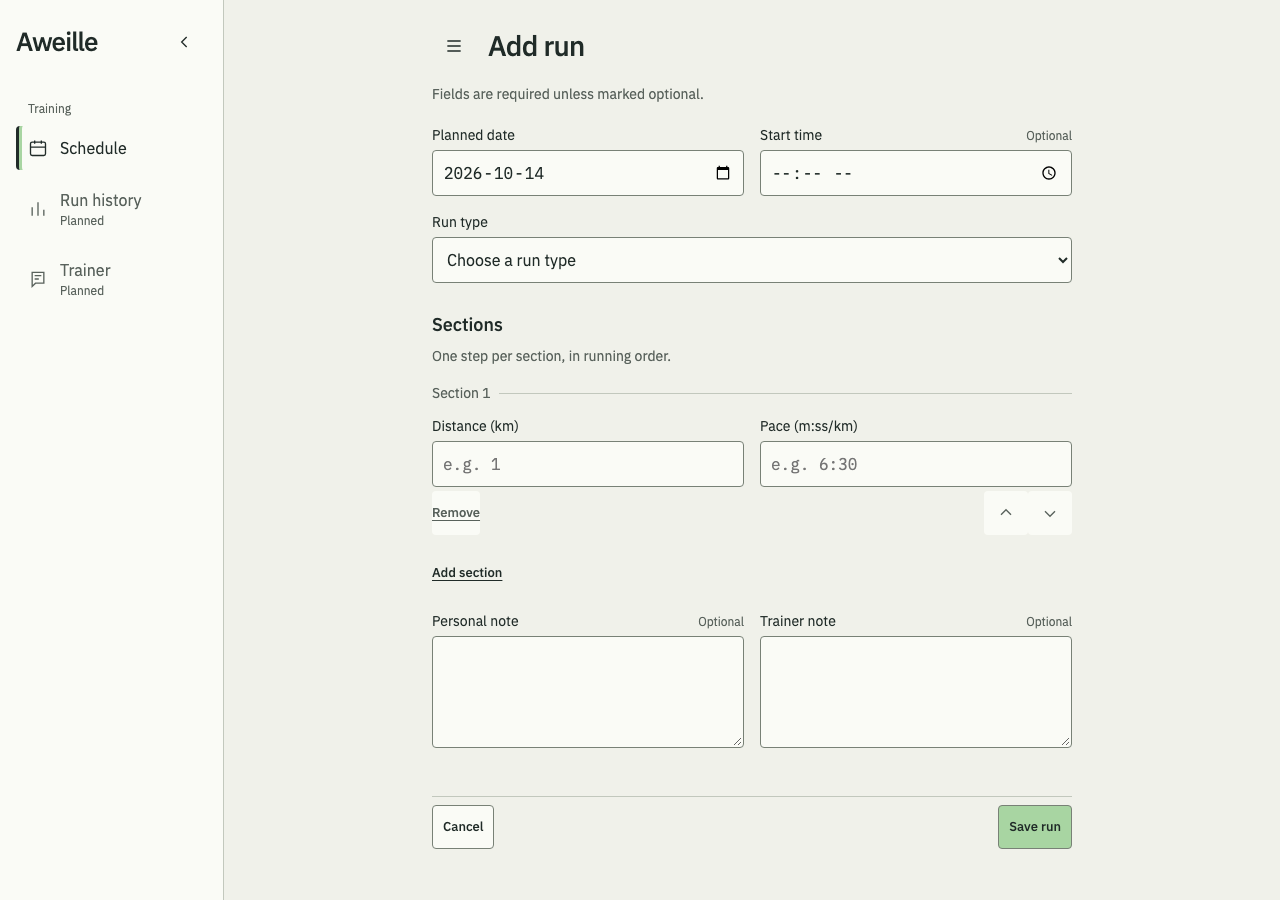
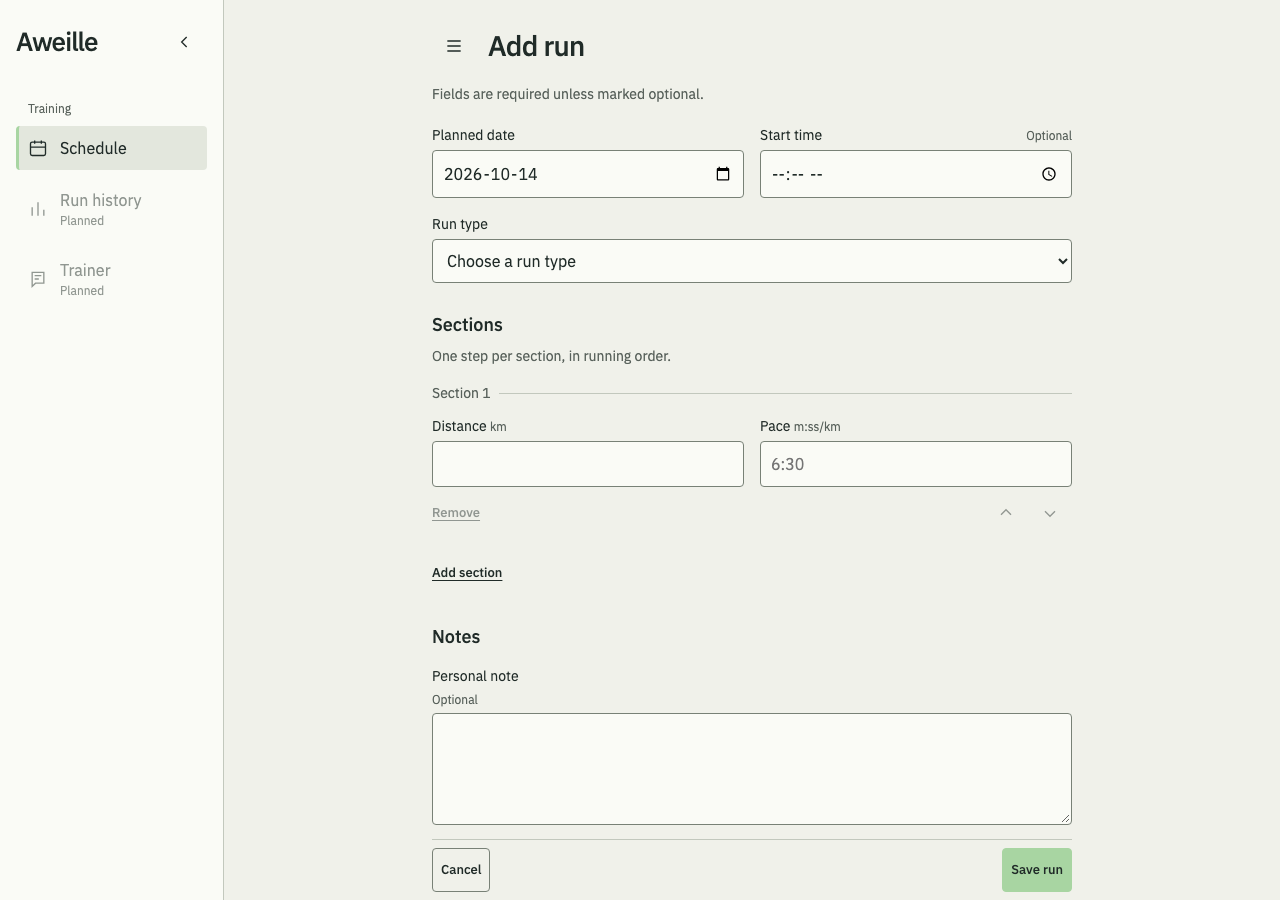
docs: refresh prototype parity captures and final verification

diff --git a/docs/verification/redesign-acceptance.md b/docs/verification/redesign-acceptance.md
@@ -4,6 +4,14 @@
 
 Arnaud subsequently requested the prototype's appearance directly in production. [DESIGN.md](../../DESIGN.md#production-visual-reference) records that preference over the earlier consolidated presentation differences. The [direct specimen comparison](redesign-visual-parity.md) now verifies the paired phone fields, full-width notes, Sans values and prototype control/state treatments. This supersedes the earlier stacked-field, Mono-input, outlined-primary and opaque-disabled-action claims below. All production write/recovery contracts and manual acceptance gates remain.
 
+Final code head `10d852c` passed all **366 tests in 78.37 seconds**, `uv run ty check`, `uv run ruff check .`, `uv run ruff format --check .` and `git diff --check`. The final presentation changes are in integration PR #55; the separately verified foundation and schedule PRs remain its prerequisites. Fourteen linked production captures were refreshed at 390px and 1280px. Subsequent documentation/capture commits do not change application code.
+
+The 16-scenario dense/long-content pass was repeated at 320/390/900/1280px on the final code, covering Day, Week, create, edit, all sidebar states, backdrop/close/Escape, inert background, scroll lock, retained drafts, ordering and no page overflow. Prototype hover/active/destructive/disabled treatments and visible keyboard focus passed. Current contrast measurements are ink/green 8.84:1, draft ink/panel 14.05:1, error/panel 7.00:1, white/Delete 4.97:1, input boundary/panel 3.88:1 and focus/paper 5.87:1. Unavailable actions retain the specimen's opacity; earlier disabled-action contrast values below describe the previous presentation.
+
+Native Firefox 158.0 actual 200% zoom was repeated for the final schedule/create/edit screens. The browser's 200% indicator was observed, navigation reflowed to drawer mode, paired fields and footer actions remained readable, and edit Cancel returned to the focused schedule heading. Zoom was restored and only the temporary tab was closed. These checks used disposable local data; the screenshot/state pass sent no write to storage.
+
+The independent Standards review found no violations at `346bb12` and confirmed no findings in the final `10d852c` delta. Spec review found two small state-spacing differences, fixed in `10d852c`: phone confirmation padding and notice paragraph bottom margin. Public specimen comparisons confirmed both fixes. Both review axes have zero remaining findings at `10d852c`; neither reviewer repeated the full suite independently. Physical-phone, screen-reader and maintainer acceptance remain pending, so #51 and milestone 2 remain open.
+
 ## Earlier October 18 visual correction
 
 Maintainer review exposed visual omissions despite the earlier passing behavior checks. The [visual comparison and correction record](redesign-visual-parity.md) identifies the approved screenshots, missing elements, fixes and intentional handoff differences. Linked schedule/form captures have been refreshed. The corrected combined code at `0340310` is identical under `packages/` to tested/reviewed head `ce954a0`, which passed all 366 tests in 78.70 seconds. Restacking changed commit hashes and documentation captures only. Ty, Ruff lint/format and diff checks also passed. The corrected foundation and schedule separately passed all required checks with 350 and 356 tests. Later commits refresh documentation/captures only.
